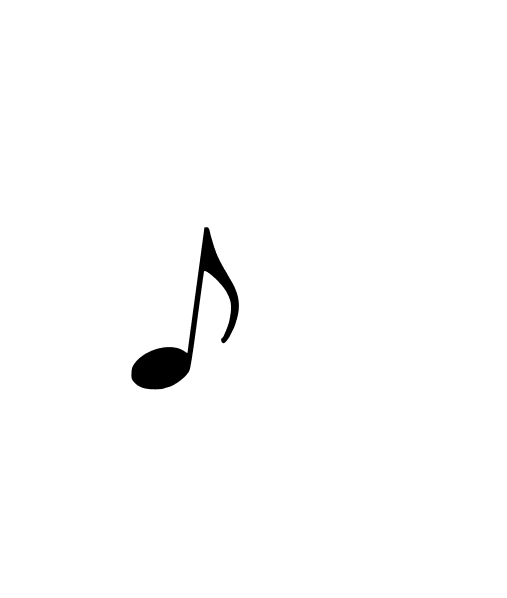
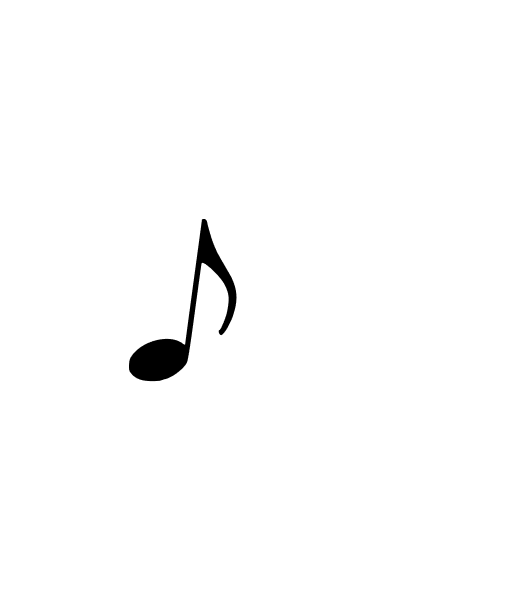
changes in playe btn

Changed region(s): [[0.2367, 0.3618, 0.4734, 0.6633]]

diff --git a/src/MusicWheel.js b/src/MusicWheel.js
@@ -23,9 +23,9 @@ import Tempo2 from "../public/assets/images/Tempo 2nd.png";
 import Tempo3 from "../public/assets/images/Tempo 3rd.png";
 import Tempo4 from "../public/assets/images/Tempo 4th.png";
 import Intencity from "../public/assets/images/Intencity.png";
-import Intencity2 from "../public/assets/images/Intencity1st.png";
-import Intencity3 from "../public/assets/images/Intencity2nd.png";
-import Intencity4 from "../public/assets/images/Intencity3rd.png";
+import Intencity2 from "../public/assets/images/Intencity1.png";
+import Intencity3 from "../public/assets/images/Intencity2.png";
+import Intencity4 from "../public/assets/images/Intencity3.png";
 import DurationDefault from "../public/assets/images/Duration.png";
 import Duration1 from "../public/assets/images/GroupDuration1.png";
 import Duration2 from "../public/assets/images/GroupDuration2.png";
@@ -1456,8 +1456,8 @@ function MusicWheel(props) {
                         fetchSongsData();
                       }}
                       style={{
-                        width: "50% !important",
-                        height: "50% !important",
+                        width: "60% !important",
+                        height: "60% !important",
                       }}
                     />
                   </div>
@@ -1676,10 +1676,10 @@ function MusicWheel(props) {
             <table className={classes.tableStyle} >
             <tr className={classes.trStyle}>
               <th className={classes.thStyles}>{props.songTitle}</th>
-              <th className={classes.thStyles}>{props.songNote}</th>
-              <th className={classes.thStyles}>{props.composer}</th>
-              <th className={classes.thStyles}>{props.duration}</th>
-              <th className={classes.thStyles}>{props.imageCount}</th>
+               <th className={classes.thStylesNew}>{props.composer}</th>
+              <th className={classes.thStylesNew}>{props.songNote}</th>
+              <th className={classes.thStylesNew}>{props.duration}</th>
+              <th className={classes.thStylesNew}>{props.imageCount}</th>
              
             </tr>
             </table>

diff --git a/utils/styles.module.js b/utils/styles.module.js
@@ -124,8 +124,8 @@ const useStyles = makeStyles({
   },
 
   circle4: {
-    width: "75px",
-    height: "75px",
+    width: "100px",
+    height: "100px",
     borderRadius: "50%",
     listStyle: "none",
     overflow: "hidden",
@@ -878,6 +878,16 @@ premiumActive:{
     //  borderRight:'2px solid black',
     // background: "#5D432C",
     color: "white !important",
+    width:'30%',
+  },
+  thStylesNew: {
+    top: 0,
+    marginTop:'-10px',
+   position: 'sticky',
+    //  borderRight:'2px solid black',
+    // background: "#5D432C",
+    color: "white !important",
+    width:'17%',
   },
   paperStyle: {
     marginTop: "35px",
@@ -924,7 +934,7 @@ premiumActive:{
   },
   playerBtn: {
     cursor: "pointer",
-    fontSize: "70px",
+    fontSize: "80px",
     position: "absolute",
     color: "#00BF55",
     borderRadius: "5px",

diff --git a/src/LandingPage.js b/src/LandingPage.js
@@ -119,7 +119,7 @@ function LandingPage() {
     setAllImageCount(totalCount);
     console.log(totalCount, "totalCount");
     console.log(data[index].no_of_images, "newCount");
-    allImageCount > 1000 ? setTotalCount(0) : "";
+    allImageCount > 10000 ? setTotalCount(0) : "";
     remainingTimes(totalSeconds);
     
   }
